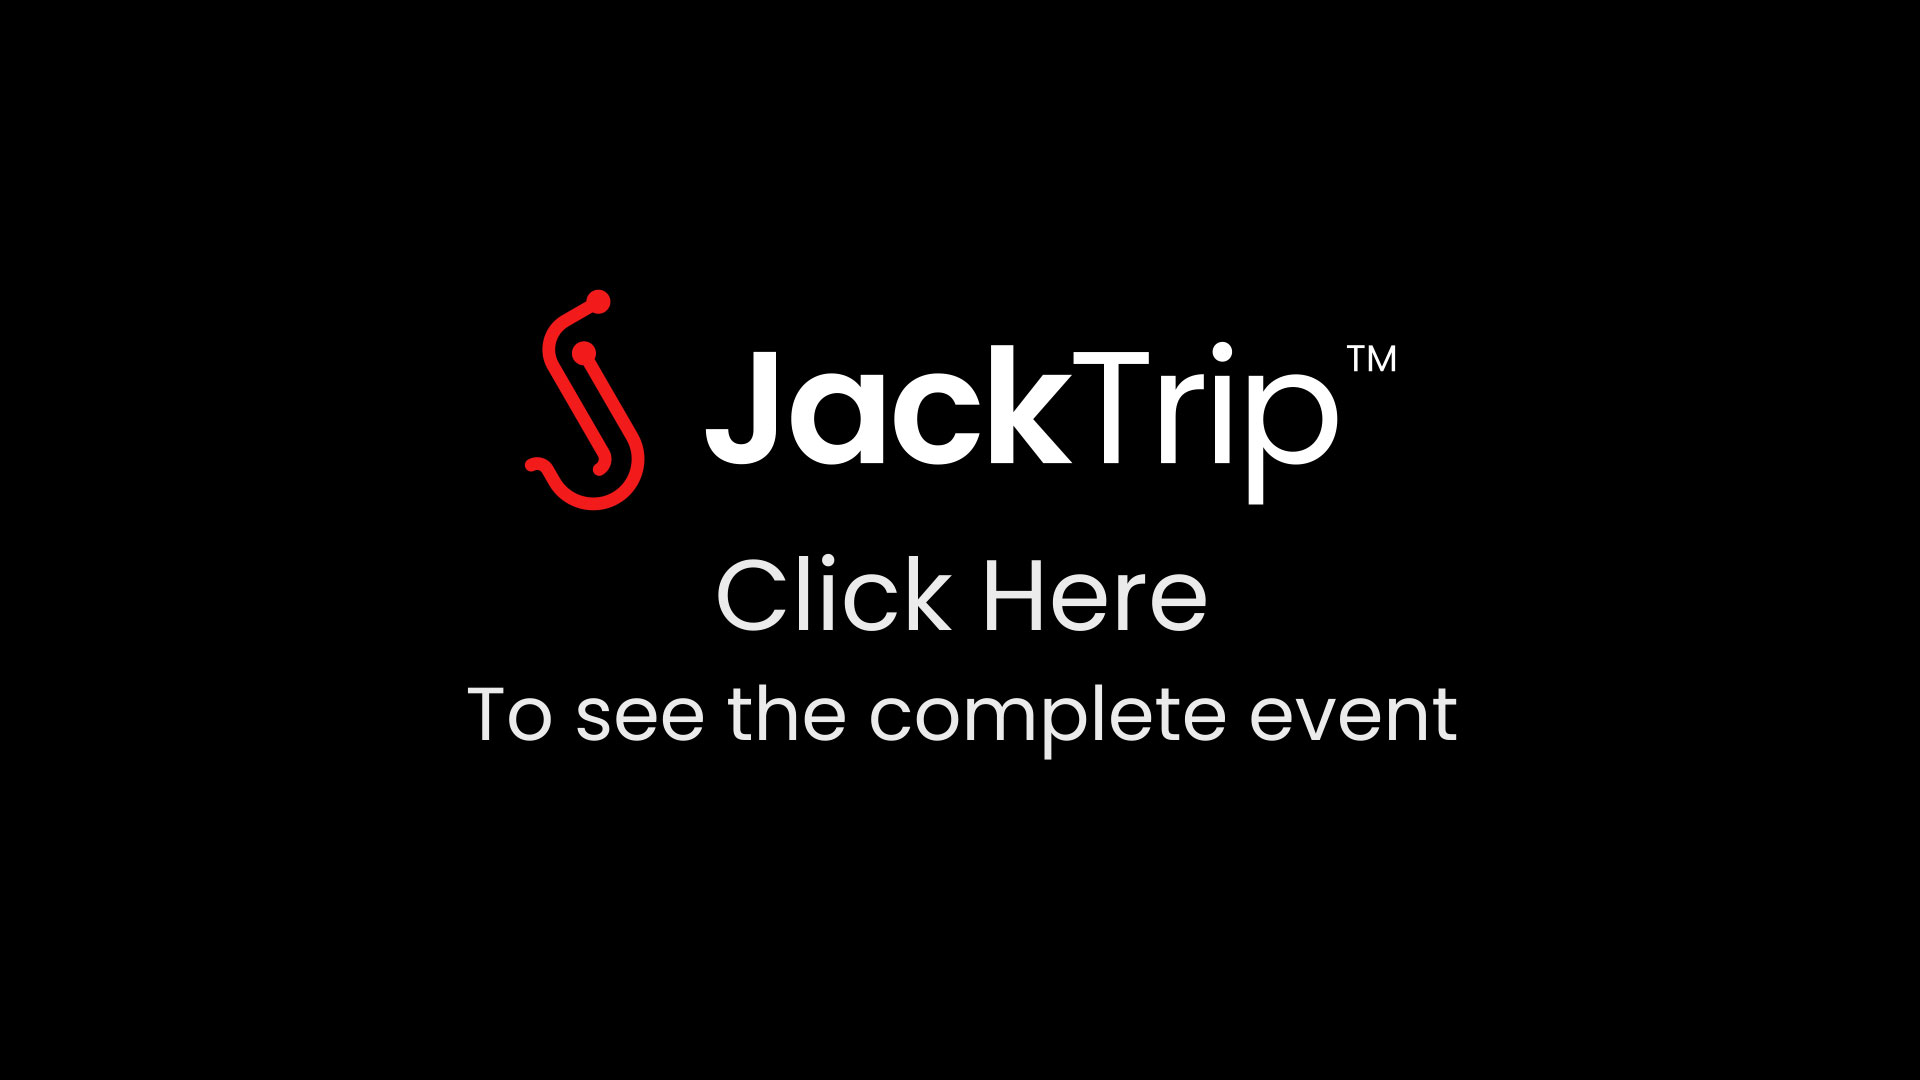
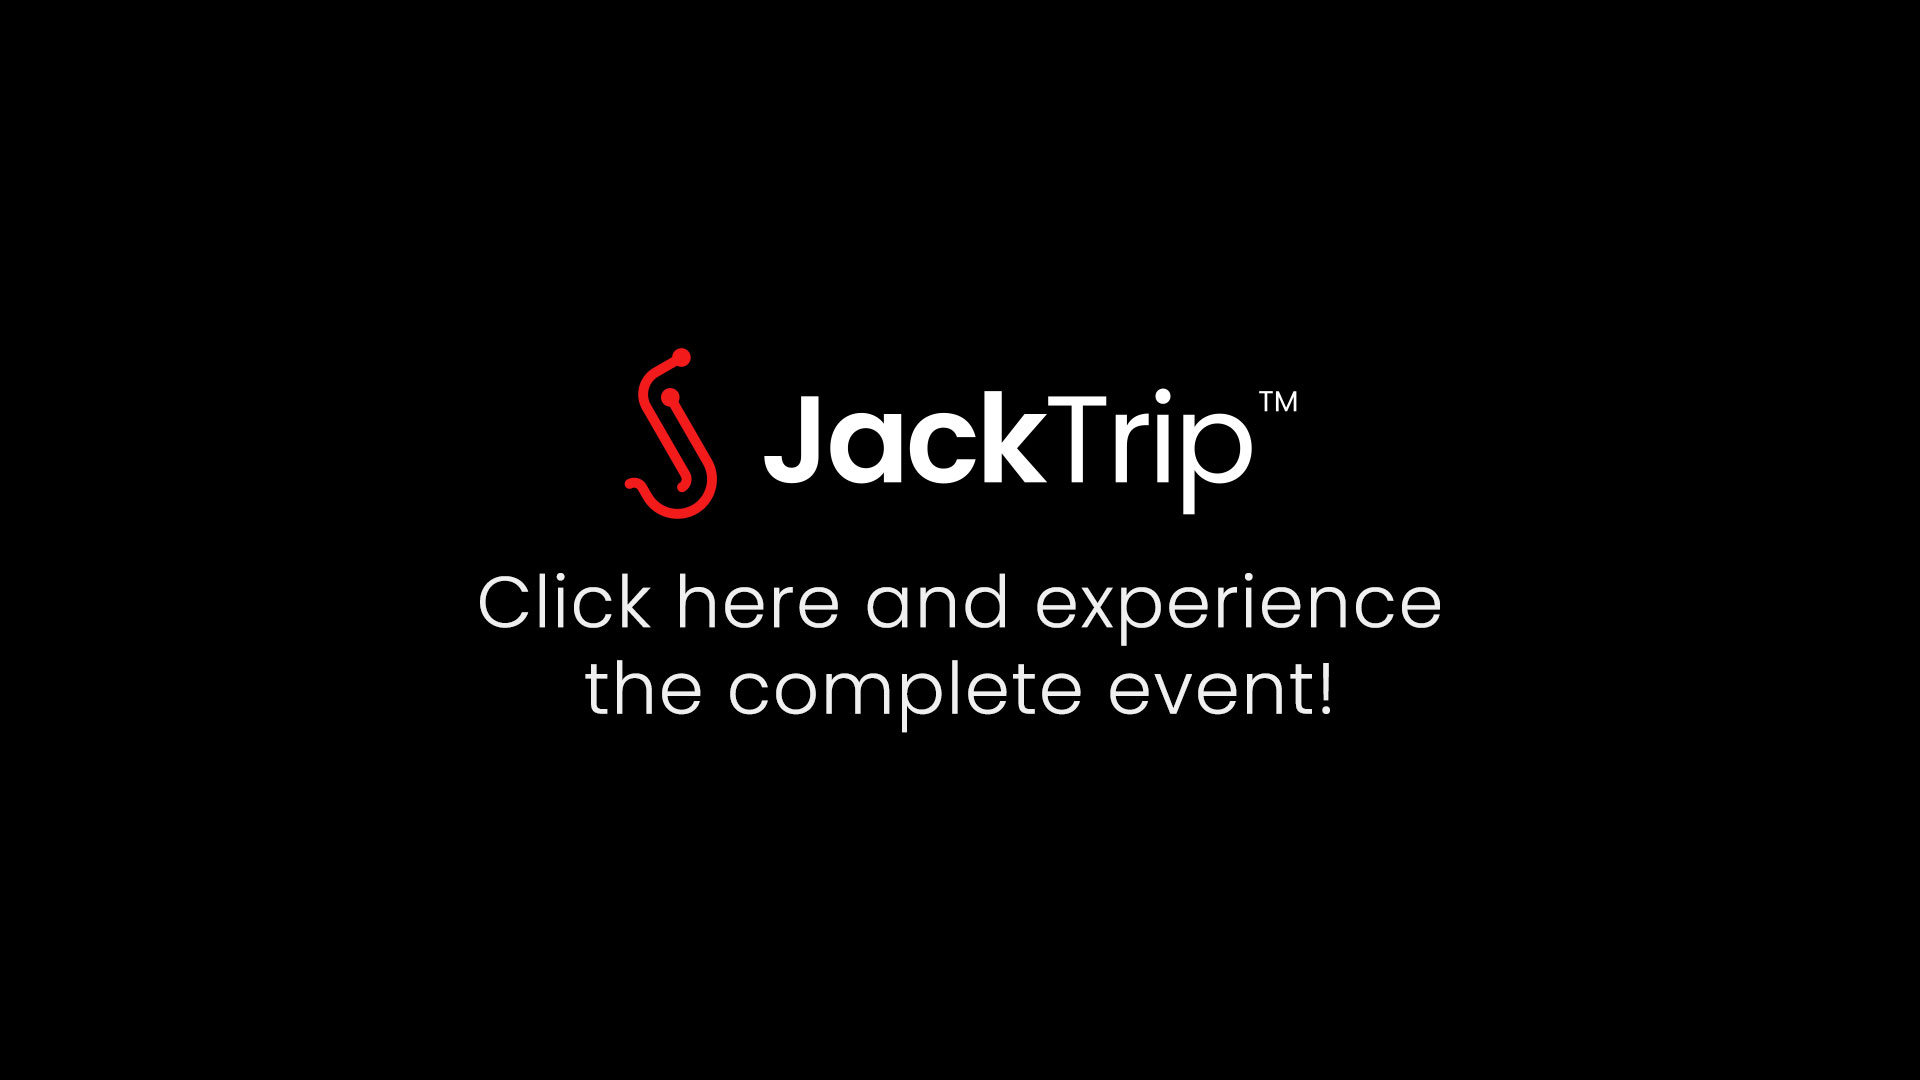
Website Updates - 10/29/21 v1
End slate CTA updates for Russ

Changed region(s): [[0.2812, 0.275, 0.7188, 0.4889], [0.25, 0.6111, 0.7812, 0.7028], [0.25, 0.5194, 0.75, 0.5806]]

diff --git a/mini-doc_promo/index.html b/mini-doc_promo/index.html
@@ -64,7 +64,7 @@
         var myVid = document.getElementById("myVideo");
 
         function goToURL() {
-            window.open('https://jacktrip.org/get-started/');
+            window.open('https://jacktrip.org/ericwhitacre/');
         }
 
         myVid.onended = function() {
